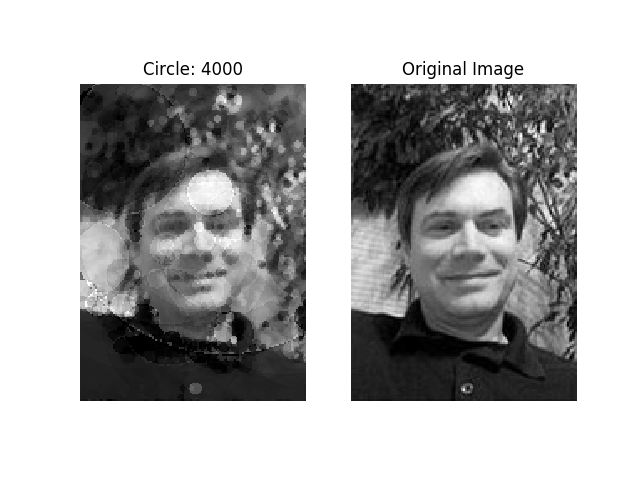
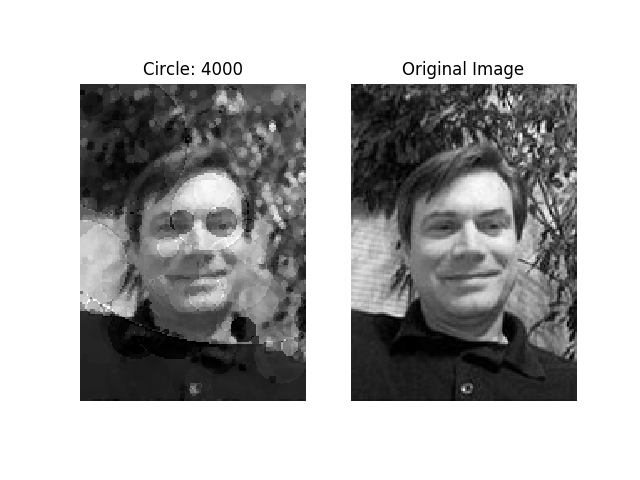
Gave population size a step function. New naming for images because of the way they are ordered on github.

diff --git a/ga.py b/ga.py
@@ -6,25 +6,34 @@ from time import sleep, perf_counter
 
 class GA():
     ELITISM = 0.10
-    def __init__(self, population=10, generations=50, circles=200, headless=False):
-        self.pop_size = population
-        self.gens = generations
+    def __init__(self, circles=4000, headless=False):
+        self.epoch = 0
+        self.SetPopAttributes()
         self.circles = circles
         self.center = np.dtype([('x', np.float32), ('y', np.float32)])
         self.genome = np.dtype([('center',self.center), ('radius', np.float32), ('intensity', np.float32) ])
         self.pop = np.zeros((self.pop_size, ), dtype=self.genome)
         self.headless = headless
 
+    def SetPopAttributes(self):
+        if self.epoch < 200:
+            self.pop_size = 200
+            self.gens = 200
+        else:
+            self.pop_size = 10
+            self.gens = 50
+
     def Reset(self):
         self.img_fitness = 0
+        self.epoch = 0
 
     def Run(self, image):
         """Run the Genetic Algorthm"""
         filename = image[7:len(image) - 4]
         self.LoadImage(image)
         self.Reset()
-        self.epoch = 0
         while self.epoch < self.circles:
+            self.SetPopAttributes()
             self.InitializePop()    # 1
             self.EvaluatePop()
             if not self.headless:
@@ -51,6 +60,26 @@ class GA():
                 if self.headless:
                     self.Draw()
                 plt.savefig('results/' + filename + '_200.png')
+            # elif self.epoch == 499:
+            #     if self.headless:
+            #         self.Draw()
+            #     plt.savefig('results/' + filename + '_500.png')
+            # elif self.epoch == 999:
+            #     if self.headless:
+            #         self.Draw()
+            #     plt.savefig('results/' + filename + '_1000.png')
+            # elif self.epoch == 1999:
+            #     if self.headless:
+            #         self.Draw()
+            #     plt.savefig('results/' + filename + '_2000.png')
+            # elif self.epoch == 2999:
+            #     if self.headless:
+            #         self.Draw()
+            #     plt.savefig('results/' + filename + '_3000.png')
+            elif self.epoch == 3999:
+                if self.headless:
+                    self.Draw()
+                plt.savefig('results/' + filename + '_4000.png')
             self.epoch += 1
 
         # When done display final image
@@ -301,6 +330,6 @@ class GA():
 if __name__ == '__main__':
     ga = GA(headless=True)
     # cProfile.run('ga.Run("images/test3.png")', sort="time")
-    ga.Run('images/mona_lisa.png')
+    ga.Run('images/adam.png')
     plt.ioff()
 
